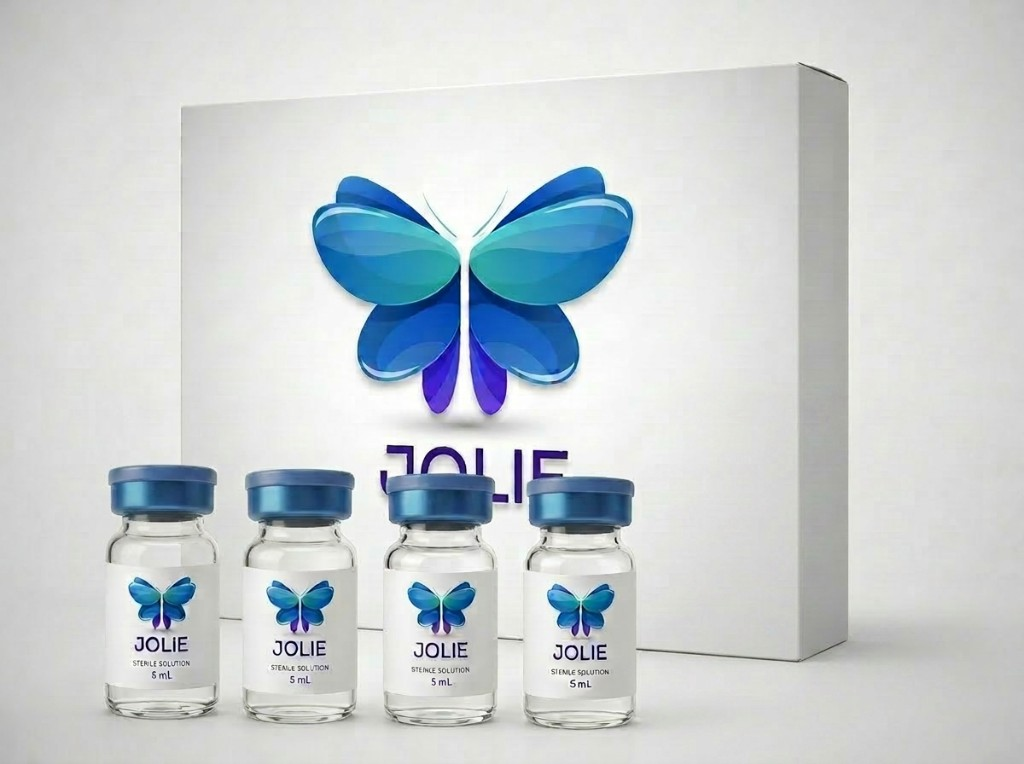
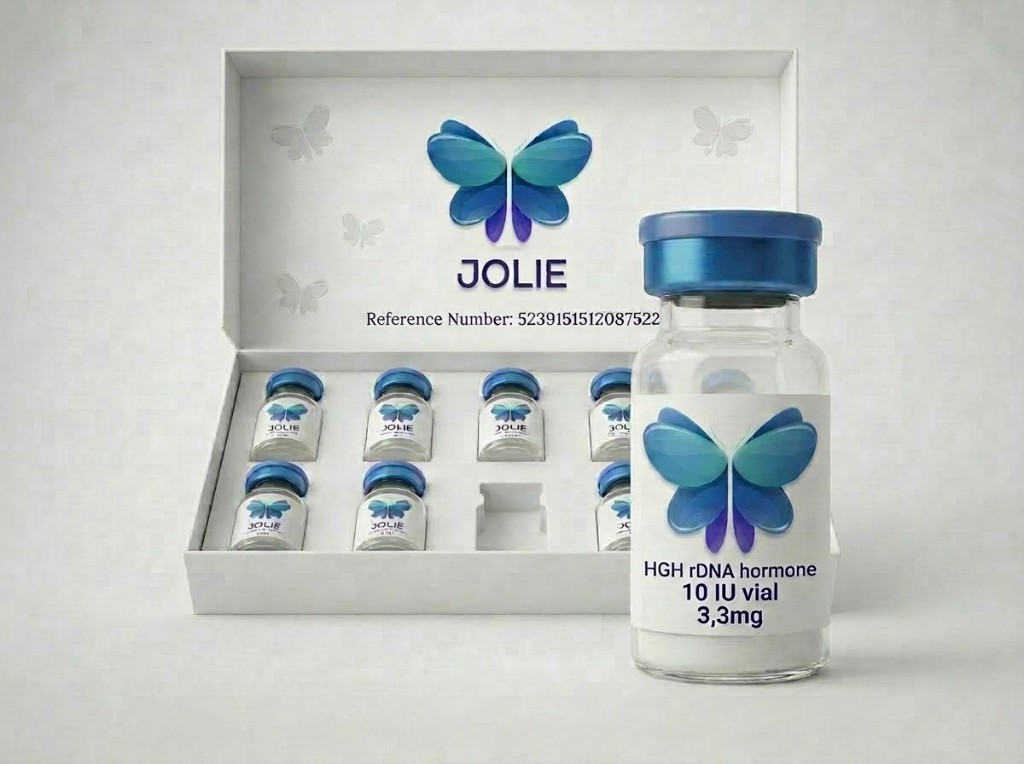
Redesign Jolie flagship product showcase

diff --git a/src/components/showcase/flagship-showcase.tsx b/src/components/showcase/flagship-showcase.tsx
@@ -1,118 +1,143 @@
 "use client";
 
 import Image from "next/image";
-import Link from "next/link";
 import { motion } from "framer-motion";
-import { fadeUp } from "@/lib/motion";
+import { FLAGSHIP_SHOWCASE } from "@/data/flagship-showcase-content";
+import { fadeUp, staggerContainer } from "@/lib/motion";
 
 const organicEase = [0.45, 0, 0.55, 1] as const;
-
-const TITLE_LINES = ["10 IU recombinant", "human growth hormone"] as const;
-
-const SHOWCASE_COPY = [
-  "A flagship biotech formulation engineered for precision, consistency, and clinical-grade presentation.",
-  "Manufactured under European quality frameworks — sterile solution, validated processes, and pharmaceutical-grade oversight from batch to release.",
-] as const;
 
 export function FlagshipShowcase() {
   return (
     <section
-      className="relative overflow-hidden border-t border-white/40 py-20 sm:py-28 lg:py-32"
+      className="relative overflow-hidden border-t border-white/40 py-20 sm:py-28 lg:py-36"
       aria-labelledby="flagship-showcase-title"
     >
-      {/* Section atmosphere */}
       <div
-        className="pointer-events-none absolute inset-0 bg-[linear-gradient(180deg,oklch(0.975_0.012_280)_0%,oklch(0.99_0.008_350)_50%,oklch(0.97_0.015_250)_100%)]"
+        className="pointer-events-none absolute inset-0 bg-[linear-gradient(180deg,oklch(0.975_0.012_280)_0%,oklch(0.99_0.008_350)_45%,oklch(0.97_0.015_250)_100%)]"
         aria-hidden
       />
       <motion.div
-        className="pointer-events-none absolute left-[10%] top-[20%] h-[40vh] w-[40vh] rounded-full bg-[radial-gradient(circle,oklch(0.82_0.08_220/0.12)_0%,transparent_70%)] blur-[80px]"
-        animate={{ opacity: [0.3, 0.5, 0.3] }}
+        className="pointer-events-none absolute left-[5%] top-[15%] h-[45vh] w-[45vh] rounded-full bg-[radial-gradient(circle,oklch(0.82_0.08_220/0.1)_0%,transparent_70%)] blur-[90px]"
+        animate={{ opacity: [0.28, 0.48, 0.28] }}
         transition={{ duration: 10, repeat: Infinity, ease: organicEase }}
         aria-hidden
       />
       <motion.div
-        className="pointer-events-none absolute right-[8%] bottom-[15%] h-[36vh] w-[36vh] rounded-full bg-[radial-gradient(circle,oklch(0.78_0.1_290/0.1)_0%,transparent_72%)] blur-[72px]"
-        animate={{ opacity: [0.25, 0.42, 0.25] }}
+        className="pointer-events-none absolute right-[5%] bottom-[10%] h-[40vh] w-[40vh] rounded-full bg-[radial-gradient(circle,oklch(0.78_0.1_290/0.08)_0%,transparent_72%)] blur-[80px]"
+        animate={{ opacity: [0.22, 0.4, 0.22] }}
         transition={{ duration: 12, repeat: Infinity, ease: organicEase }}
         aria-hidden
       />
 
-      <div className="relative mx-auto grid max-w-6xl items-center gap-12 px-5 sm:gap-16 sm:px-8 lg:grid-cols-2 lg:gap-20">
-        {/* Product visual */}
-        <motion.div
-          initial="hidden"
-          whileInView="visible"
-          viewport={{ once: true, margin: "-80px" }}
-          variants={fadeUp}
-          className="relative mx-auto w-full max-w-lg lg:max-w-none"
-        >
+      <div className="relative mx-auto max-w-6xl px-5 sm:px-8">
+        {/* Hero: image + headline */}
+        <div className="grid items-center gap-12 lg:grid-cols-[1.15fr_1fr] lg:gap-16 xl:gap-20">
           <motion.div
-            className="pointer-events-none absolute left-1/2 top-1/2 h-[85%] w-[90%] -translate-x-1/2 -translate-y-1/2 rounded-full bg-[radial-gradient(ellipse,oklch(0.8_0.1_250/0.25)_0%,transparent_68%)] blur-3xl"
-            animate={{ opacity: [0.35, 0.55, 0.35], scale: [0.96, 1.04, 0.96] }}
-            transition={{ duration: 7, repeat: Infinity, ease: organicEase }}
-            aria-hidden
-          />
-
-          <motion.div
-            animate={{ y: [-6, 6, -6] }}
-            transition={{ duration: 6, repeat: Infinity, ease: organicEase }}
-            className="relative"
+            initial="hidden"
+            whileInView="visible"
+            viewport={{ once: true, margin: "-80px" }}
+            variants={fadeUp}
+            className="relative mx-auto w-full max-w-xl lg:max-w-none"
           >
-            <div className="relative aspect-[4/3] w-full sm:aspect-[5/4]">
-              <Image
-                src="/images/flagship-product.png"
-                alt="Jolie sterile solution — flagship pharmaceutical presentation"
-                fill
-                className="object-contain object-center drop-shadow-[0_24px_48px_oklch(0.45_0.05_280/0.15)]"
-                sizes="(max-width: 1024px) 90vw, 50vw"
-              />
-            </div>
-          </motion.div>
-        </motion.div>
-
-        {/* Copy */}
-        <motion.div
-          initial="hidden"
-          whileInView="visible"
-          viewport={{ once: true, margin: "-80px" }}
-          variants={fadeUp}
-          className="flex flex-col text-center lg:text-left"
-        >
-          <p className="mb-5 text-[0.65rem] font-medium tracking-[0.48em] uppercase text-[oklch(0.55_0.06_15)]">
-            Flagship Formulation
-          </p>
-
-          <h2
-            id="flagship-showcase-title"
-            className="text-balance text-3xl font-light leading-[1.1] tracking-tight text-foreground sm:text-4xl lg:text-[2.75rem]"
-          >
-            {TITLE_LINES.map((line) => (
-              <span key={line} className="block">
-                {line}
-              </span>
-            ))}
-          </h2>
-
-          <div className="mt-8 space-y-5 sm:mt-10">
-            {SHOWCASE_COPY.map((paragraph) => (
-              <p
-                key={paragraph.slice(0, 40)}
-                className="mx-auto max-w-md text-pretty text-sm leading-[1.75] text-muted-foreground sm:text-base lg:mx-0 lg:max-w-lg"
-              >
-                {paragraph}
-              </p>
-            ))}
-          </div>
-
-          <div className="mt-10 flex flex-col items-center gap-4 sm:flex-row lg:items-start">
-            <Link
-              href="/about"
-              className="inline-flex h-10 items-center justify-center rounded-full border border-white/80 bg-white/50 px-7 text-sm font-medium text-foreground backdrop-blur-sm transition-colors hover:bg-white/80"
+            <motion.div
+              className="pointer-events-none absolute -inset-4 rounded-[28px] bg-[radial-gradient(ellipse,oklch(0.8_0.1_250/0.22)_0%,transparent_72%)] blur-2xl sm:-inset-6"
+              animate={{ opacity: [0.4, 0.65, 0.4] }}
+              transition={{ duration: 7, repeat: Infinity, ease: organicEase }}
+              aria-hidden
+            />
+            <motion.div
+              animate={{ y: [-5, 5, -5] }}
+              transition={{ duration: 6, repeat: Infinity, ease: organicEase }}
+              className="relative overflow-hidden rounded-[20px] bg-white/40 shadow-[0_28px_64px_-16px_oklch(0.45_0.06_280/0.22)] ring-1 ring-white/60"
             >
-              About Us
-            </Link>
-          </div>
+              <div className="relative aspect-[5/4] w-full sm:aspect-[4/3]">
+                <Image
+                  src="/images/flagship-product.png"
+                  alt="Jolie HGH rDNA Growth Hormone — pharmaceutical kit presentation"
+                  fill
+                  className="object-contain object-center p-2 sm:p-3"
+                  sizes="(max-width: 1024px) 92vw, 55vw"
+                  priority={false}
+                />
+              </div>
+            </motion.div>
+          </motion.div>
+
+          <motion.div
+            initial="hidden"
+            whileInView="visible"
+            viewport={{ once: true, margin: "-80px" }}
+            variants={staggerContainer}
+            className="flex flex-col text-center lg:text-left"
+          >
+            <motion.p
+              variants={fadeUp}
+              className="mb-4 text-[0.65rem] font-medium tracking-[0.48em] uppercase text-[oklch(0.55_0.06_15)]"
+            >
+              Flagship Formulation
+            </motion.p>
+            <motion.div variants={fadeUp} id="flagship-showcase-title">
+              <h2 className="text-balance text-4xl font-light leading-[1.08] tracking-tight text-foreground sm:text-5xl lg:text-[3.25rem]">
+                {FLAGSHIP_SHOWCASE.title.map((line) => (
+                  <span key={line} className="block">
+                    {line}
+                  </span>
+                ))}
+              </h2>
+            </motion.div>
+            <motion.ul
+              variants={fadeUp}
+              className="mt-6 flex flex-col gap-2 sm:flex-row sm:flex-wrap sm:justify-center lg:justify-start"
+            >
+              {FLAGSHIP_SHOWCASE.specs.map((spec) => (
+                <li
+                  key={spec}
+                  className="inline-flex items-center justify-center rounded-full border border-white/60 bg-white/45 px-4 py-2 text-sm font-medium tracking-wide text-foreground backdrop-blur-sm"
+                >
+                  {spec}
+                </li>
+              ))}
+            </motion.ul>
+            <motion.div
+              variants={fadeUp}
+              className="mt-8 space-y-4 rounded-2xl border border-white/55 bg-white/42 p-6 text-left shadow-[0_16px_48px_-24px_oklch(0.5_0.06_280/0.12)] backdrop-blur-sm sm:p-8"
+            >
+              {FLAGSHIP_SHOWCASE.overview.map((paragraph) => (
+                <p
+                  key={paragraph.slice(0, 48)}
+                  className="text-pretty text-sm leading-[1.75] text-muted-foreground sm:text-[0.95rem]"
+                >
+                  {paragraph}
+                </p>
+              ))}
+            </motion.div>
+          </motion.div>
+        </div>
+
+        {/* Detail cards */}
+        <motion.div
+          initial="hidden"
+          whileInView="visible"
+          viewport={{ once: true, margin: "-60px" }}
+          variants={staggerContainer}
+          className="mt-16 grid gap-4 sm:mt-20 sm:grid-cols-2 sm:gap-5 lg:mt-24 lg:grid-cols-3 lg:gap-6"
+        >
+          {FLAGSHIP_SHOWCASE.sections.map((block) => (
+            <motion.article
+              key={block.id}
+              variants={fadeUp}
+              className="rounded-2xl border border-white/55 bg-white/42 p-6 shadow-[0_12px_40px_-20px_oklch(0.5_0.06_280/0.12)] backdrop-blur-sm sm:p-7"
+            >
+              <div className="mb-3 h-px w-10 bg-gradient-to-r from-[oklch(0.72_0.06_265)] to-transparent" />
+              <h3 className="text-lg font-medium tracking-tight text-foreground">
+                {block.title}
+              </h3>
+              <p className="mt-3 text-sm leading-[1.7] text-muted-foreground">
+                {block.body}
+              </p>
+            </motion.article>
+          ))}
         </motion.div>
       </div>
     </section>

diff --git a/src/data/flagship-showcase-content.ts b/src/data/flagship-showcase-content.ts
@@ -1,0 +1,35 @@
+export const FLAGSHIP_SHOWCASE = {
+  title: ["HGH", "rDNA Growth Hormone"] as const,
+  specs: ["10 IU vial • 3.3 mg", "10 vials per box"] as const,
+  overview: [
+    "Growth hormone of recombinant DNA (rDNA) origin, known generically as somatropin (rhGH), is a synthetic protein identical in structure to naturally occurring human growth hormone.",
+    "Produced using recombinant DNA technology through cultured host cells, providing a pure, scalable and highly controlled pharmaceutical-grade product.",
+  ] as const,
+  sections: [
+    {
+      id: "product-overview",
+      title: "Product Overview",
+      body: "Somatropin (rhGH) of rDNA origin — a synthetic protein structurally identical to endogenous human growth hormone, manufactured through cultured host cells for pharmaceutical-grade purity and batch control.",
+    },
+    {
+      id: "clinical-need",
+      title: "Clinical Need",
+      body: "Recombinant human growth hormone addresses documented deficiencies in endogenous GH secretion, supporting regulated metabolic, skeletal, and cellular homeostasis under specialist supervision.",
+    },
+    {
+      id: "medical-uses",
+      title: "Medical Uses",
+      body: "Indicated for approved therapeutic contexts where GH replacement is clinically justified — including select pediatric growth disorders and adult GH deficiency evaluated through endocrine assessment.",
+    },
+    {
+      id: "drug-administration",
+      title: "Drug Administration",
+      body: "Typically administered via subcutaneous injection following reconstitution with approved diluent. Dosing, frequency, and treatment duration are determined exclusively by qualified medical oversight.",
+    },
+    {
+      id: "athletic-use",
+      title: "Athletic Use",
+      body: "Non-medical or performance-enhancing use falls outside approved pharmaceutical intent. Authentic Jolie products are intended for verified, legitimate supply channels only.",
+    },
+  ] as const,
+} as const;
